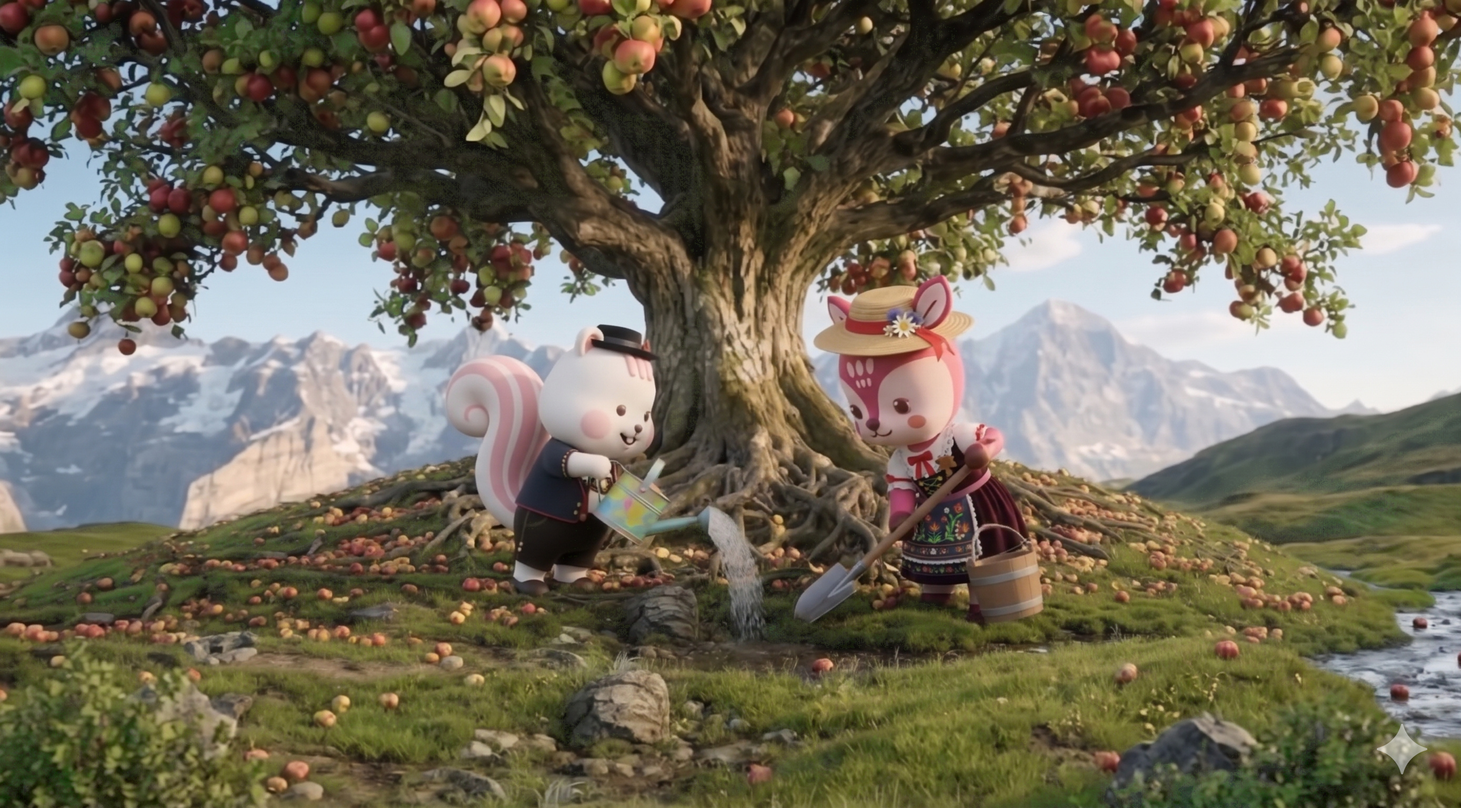
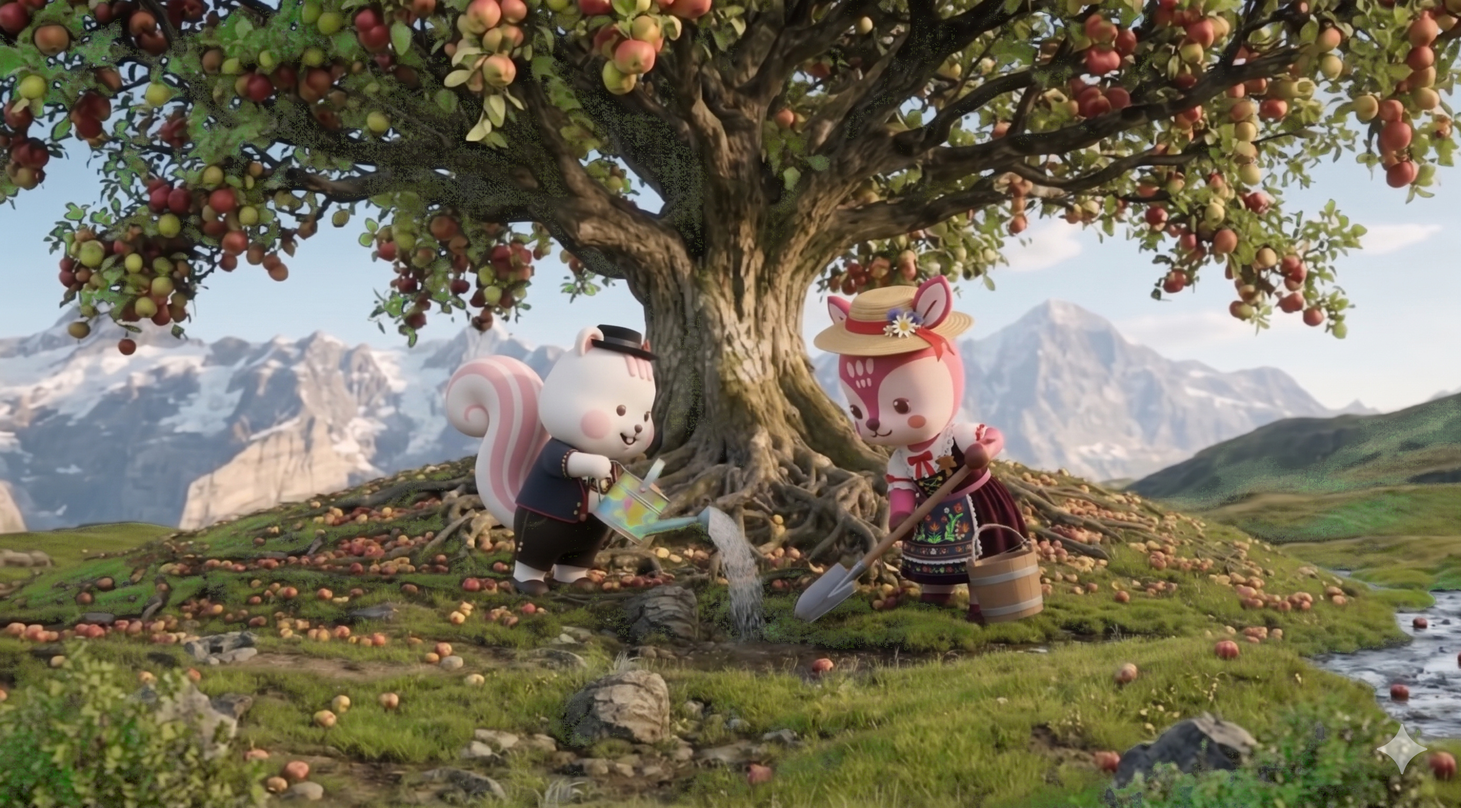
Ripening Quest: brighter greens again in the idle background
Claude-Session: https://claude.ai/code/session_01XktYecWfLhSfR5VcTEv7MG

diff --git a/ripening-quest/index.html b/ripening-quest/index.html
@@ -412,8 +412,8 @@ td button{border:1px solid var(--line);background:var(--cream);border-radius:8px
 
 <!-- ===== big screen ===== -->
 <main id="view-screen" class="view" hidden>
-  <video class="scr-video" id="s-video" muted playsinline preload="auto" poster="../assets/ripen-idle.jpg?v=5" aria-hidden="true"><source src="../assets/ripen.mp4?v=2" type="video/mp4"></video>
-  <img class="scr-idle" src="../assets/ripen-idle.jpg?v=5" alt="" aria-hidden="true">
+  <video class="scr-video" id="s-video" muted playsinline preload="auto" poster="../assets/ripen-idle.jpg?v=6" aria-hidden="true"><source src="../assets/ripen.mp4?v=2" type="video/mp4"></video>
+  <img class="scr-idle" src="../assets/ripen-idle.jpg?v=6" alt="" aria-hidden="true">
   <div class="scr-shade"></div>
   <div class="scr-wrap">
     <header class="scr-top">
